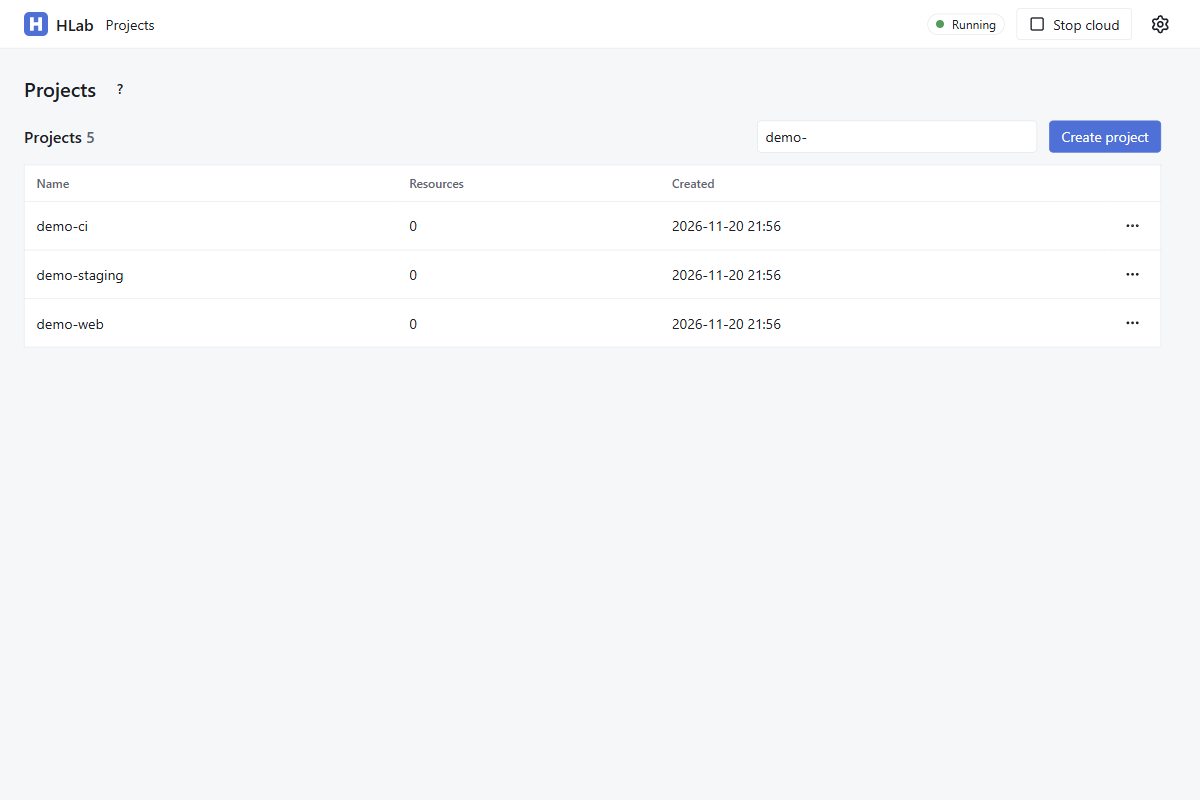
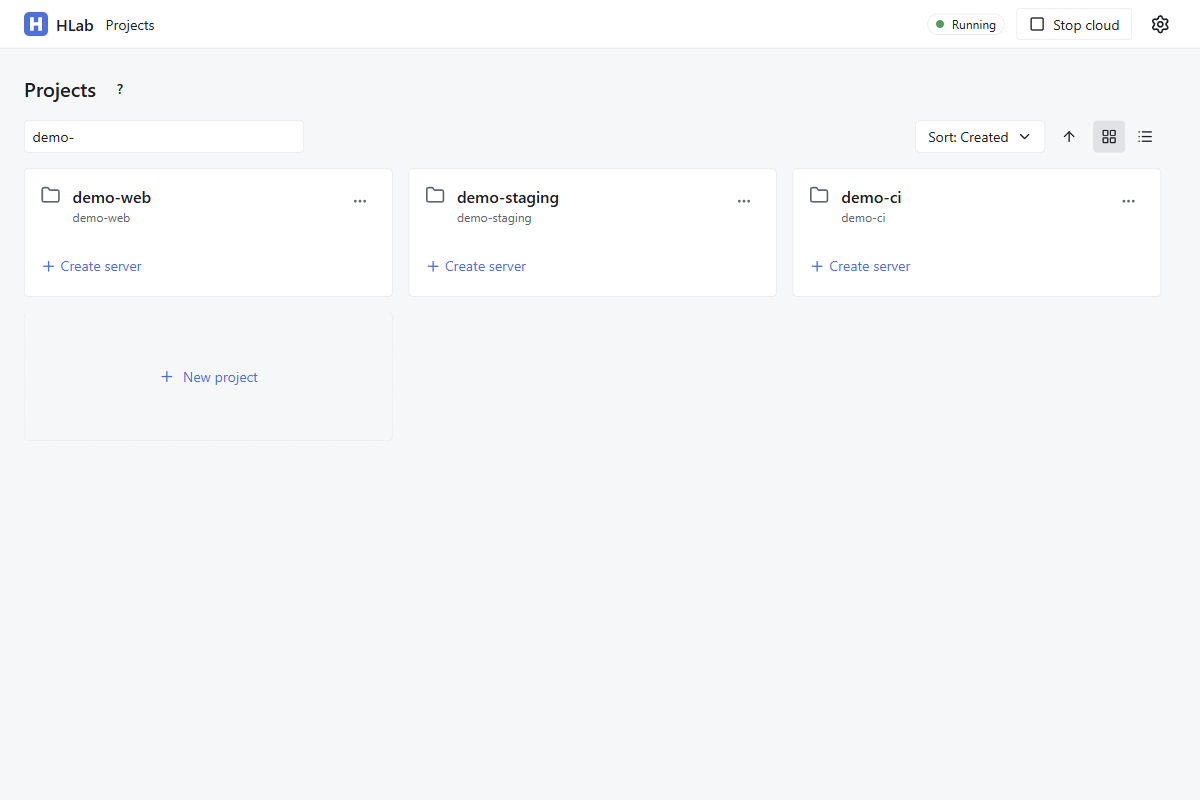
docs: project display names and the project list as cards

diff --git a/ui/frontend/src/help/projects.md b/ui/frontend/src/help/projects.md
@@ -1,20 +1,31 @@
 # Projects
 
-The start page of HLab: the list of your projects. A project holds its own
+The start page of HLab: your projects as cards. A project holds its own
 resources and API tokens, like a project in the Hetzner Cloud Console.
 Projects can only be managed while the cloud runs; while it is stopped,
 **Start cloud** starts it.
 
-- **Create project** adds a project.
-- The search field above the table filters the list by name.
-- Click a project to open its console on **Servers**. Its sidebar has
-  the groups **Cloud** (Servers, Volumes, Firewalls) and **Networking**
-  (Load Balancers, Networks, IPs, DNS) and the entry **Security** (SSH
-  Keys, **API tokens** with the tokens for hcloud, OpenTofu and Ansible,
-  and Certificates). The name in the breadcrumb opens a menu to switch to
-  another project, and **Projects** leads back to this list. HLab opens
-  the last project you used when it starts.
-- **Delete** in a project's row menu (`…`) deletes the project with all
-  its resources; type its name to confirm.
+- Each card shows the project's display name, its name below it and the
+  number of resources. Click the number to open a menu with one entry per
+  section, such as "1 SSH Key", that opens that section. A project
+  without resources offers **+ Create server** instead.
+- The search field filters by display name or name. **Sort** orders the
+  projects by display name or creation time, the arrow next to it
+  reverses the order, and **Grid** and **List** switch the layout. HLab
+  keeps the sort and the layout.
+- **+ New project** asks for a display name and shows below the field the
+  name HLab derives from it: lower case, ä ö ü ß as ae oe ue ss, accents
+  dropped, every other run of characters as `-`. The `hlab` command and
+  the addresses use the name. A taken name is refused under the field.
+- Click a card to open the project's console on **Servers**. Its sidebar
+  has the groups **Cloud** (Servers, Volumes, Firewalls) and
+  **Networking** (Load Balancers, Networks, IPs, DNS) and the entry
+  **Security** (SSH Keys, **API tokens** with the tokens for hcloud,
+  OpenTofu and Ansible, and Certificates). The display name in the
+  breadcrumb opens a menu to switch to another project, and **Projects**
+  leads back to this list. HLab opens the last project you used when it
+  starts.
+- **Delete** in a card's menu (`…`) deletes the project with all its
+  resources; type its display name to confirm.
 - **Administration** (the gear in the top bar) holds Server Types, ISOs,
   Settings and Logs; click the gear again to return.

diff --git a/docs/commands.md b/docs/commands.md
@@ -111,22 +111,56 @@ never listed, and neither is a zone whose check got no answer.
 
 ### hlab project create
 
+Creates a project from its display name, the name shown in the window.
+Quote a display name with spaces. HLab derives the project's name from
+it and prints that name; commands, the token commands and the window's
+addresses use the name.
+
 ```
-> hlab project create demo
-project demo created
+> hlab project create "Web Coding Cat"
+project web-coding-cat created
+> hlab project create "München Büro"
+project muenchen-buero created
+```
+
+The name is the display name in lower case with ä, ö, ü and ß written as
+ae, oe, ue and ss and other accents dropped (é becomes e); every other run
+of characters, spaces included, becomes one `-`, and no `-` stays at
+either end. Letters without an accent to drop, such as ø or æ, become
+`-` as well. A name is at most 255 characters. A display name is 1 to 255
+characters after leading and trailing spaces are removed and holds no
+control characters.
+
+The command fails with exit code 1 when the display name is empty, when
+nothing is left of it for the name, or when the name is taken; two
+display names that differ only in case give the same name:
+
+```
+> hlab project create "  "
+hlab: the display name is empty
+> hlab project create "!!!"
+hlab: the display name gives an empty project name
+> hlab project create "Docs"
+hlab: project docs already exists
 ```
 
 ### hlab project list
 
+Lists the projects by name with their number of resources, creation time
+and display name. `--output json` adds `resources_by_type`, the number of
+resources per section of the project console.
+
 ```
 > hlab project list
-NAME                 RESOURCES  CREATED
-demo                 0          2026-11-18 12:56:55
+NAME            RESOURCES  CREATED              DISPLAY NAME
+muenchen-buero  3          2026-11-21 10:14:40  München Büro
+web-coding-cat  0          2026-11-21 10:12:03  Web Coding Cat
 ```
 
 ### hlab project delete
 
-Deletes a project with everything in it: it revokes the project's tokens
+Deletes the project of the given name (not its display name) with
+everything in it: it revokes the project's tokens
 at once, waits until running actions of the project (a server creation,
 for example) have finished, then deletes everything the project owns:
 servers with their VMs and disks (protected servers too), volumes with

diff --git a/README.md b/README.md
@@ -78,8 +78,9 @@ state: running
 version: dev
 ```
 
-Create a project and a token for it. The token is printed once and cannot
-be shown again:
+Create a project and a token for it. `project create` takes a display
+name and prints the project's name, which the other commands use. The
+token is printed once and cannot be shown again:
 
 ```
 > bin\hlab.exe project create demo
@@ -159,10 +160,15 @@ state, it offers **Discard state and start**, which does what
 [Discarding the state](docs/guide.md#discarding-the-state)) after you
 confirm.
 
-- **Projects**, the start page: the list of projects with
-  **Create project**, a search field, and **Delete** in each row's menu
-  (`…`). Click a project to open its console; the window opens the last
-  project you used when it starts again.
+- **Projects**, the start page: the projects as cards with their display
+  name, name and number of resources, in a grid or a list, with a search
+  field and sorting by display name or creation time. The number opens a
+  menu of the project's sections; **+ New project** asks for a display
+  name and shows the name HLab derives from it (see
+  [Projects](docs/guide.md#projects)); **Delete** is in each card's menu
+  (`…`) and asks you to type the display name. Click a card to open the
+  project's console; the window opens the last project you used when it
+  starts again.
 - The **project console** opens on **Servers**. Its sidebar groups the
   entries like the Hetzner Cloud Console: **Cloud** with **Servers**,
   **Volumes** and **Firewalls**; **Networking** with **Load Balancers**,
@@ -178,7 +184,8 @@ confirm.
   | DNS | DNS Zones |
   | Security | SSH Keys, API tokens, Certificates |
 
-  The project name in the breadcrumb switches to another project.
+  The project's display name in the breadcrumb opens a menu to switch to
+  another project.
   - Each resource section has a list with a search field (a name, or a
     label selector such as `env=dev`), a create button that opens a form,
     and a detail page with an actions menu (`…`) and tabs such as Labels

diff --git a/docs/development/components.md b/docs/development/components.md
@@ -203,6 +203,7 @@ only links the `.syso` files.
 | [internal/transit](../../internal/transit) | The addresses of host, appliance, API listener, API proxy and agent, derived from `public_range`. |
 | [internal/mgmt](../../internal/mgmt) | Management API on the named pipe: status, projects (deletion as an action with its resources), tokens, catalog update, the CA certificate (`GET /mgmt/v1/ca.pem`) and the trust switch (`PUT /mgmt/v1/trust`, which stores `trust_ca` once the trust stores changed), the log (`GET /mgmt/v1/logs[?follow=1]`, the last 1000 lines as NDJSON; followers end when the cloud stops), and `POST /mgmt/v1/settings/reload`. |
 | [internal/catalog](../../internal/catalog) | Loads the shipped catalogs from [catalog/](../../catalog), an updated server type catalog and the own server types; updates the server types from the real Hetzner API. `AddOwn`, `UpdateOwn`, `RemoveOwn` and `ReloadOwn` add, change, remove and re-read own types. For the own ISOs ([isos_custom.go](../../internal/catalog/isos_custom.go)), `AddOwnISO`, `UpdateOwnISO` and `RemoveOwnISO` check and write `isos.custom.json`, `ReloadOwnISOs` re-reads it and leaves out what cannot be served, `OwnISOs` and `AllISOs` return what is served, and `ISOSourceByCacheName` gives the images package the source of an own ISO's cache file. |
+| [internal/projectname](../../internal/projectname) | Validates a project's display name and derives the project name from it; used by the management API and the tray's create dialog. |
 | [internal/labels](../../internal/labels) | Hetzner's label rules and label selectors. |
 | [internal/dnszone](../../internal/dnszone) | Hetzner's DNS data rules without API bookkeeping: zone names (Public Suffix List and the private-use suffixes), RRSets and record values (parsed with miekg/dns), SOA serials, and BIND zone file import and export. |
 | [internal/rdns](../../internal/rdns) | Reverse DNS entries of an IPv4 or IPv6 /64 owner: Hetzner's default IPv4 PTR, the rules of `change_dns_ptr`, and the effective PTR for the agent document. |

diff --git a/docs/guide.md b/docs/guide.md
@@ -6,6 +6,24 @@ project, as in [First steps](../README.md#first-steps): a server `web1`
 with the SSH key `demo` in location `fsn1`. The differences from Hetzner are collected in
 [Known deviations](deviations.md).
 
+## Projects
+
+A project has a display name, such as `Web Coding Cat`, and a name that
+HLab derives from it, `web-coding-cat`. The window shows the display
+name; `hlab` commands, the token commands and the window's addresses use
+the name. Create a project with
+[`hlab project create`](commands.md#hlab-project-create) or with
+**+ New project** in the window, which shows the derived name below the
+field as you type. A project whose name is taken cannot be created.
+
+The window's start page shows the projects as cards with the display
+name, the name and the number of resources. A click on the number opens
+a menu with one entry per section, such as "1 SSH Key", that opens that
+section; a project without resources offers **+ Create server** instead.
+The toolbar searches by display name or name, sorts by display name or
+creation time in either direction, and switches between a grid of cards
+and a list. The window keeps the sort and the layout.
+
 ## Managing servers
 
 The server actions of hcloud work on HLab's VMs:
@@ -48,8 +66,8 @@ create or start a server with `resource_unavailable`.
 
 ## Servers in the window
 
-The HLab window manages the same resources as hcloud. Click a project in
-the project list; its console opens on **Servers**. The sidebar has the
+The HLab window manages the same resources as hcloud. Click a project's
+card in the project list; its console opens on **Servers**. The sidebar has the
 groups **Cloud** (Servers, Volumes, Firewalls) and **Networking** (Load
 Balancers, Networks, IPs, DNS) and the entry **Security**; the tabs above
 the page lead to the views of an entry: **Servers** to Servers,
